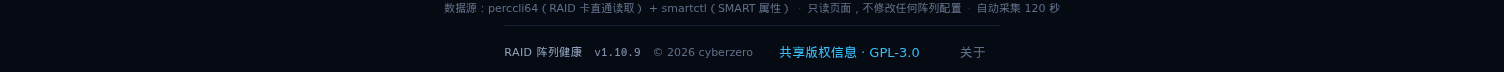
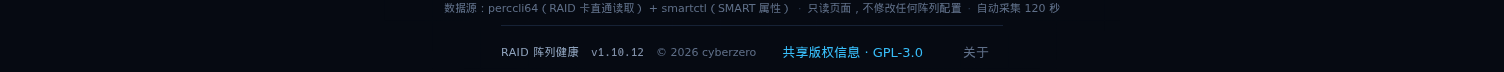
release: v1.10.12 version badge and versioned FPK naming

Changed region(s): [[0.3125, 0.6389, 0.6562, 0.8056]]

diff --git a/app/static/style.css b/app/static/style.css
@@ -1867,3 +1867,49 @@ tr.detail td { padding: 0; background: rgba(6, 11, 20, .55); border-bottom: 1px 
 .donate-payment-note p { margin: 0; font-size: 11.5px; line-height: 1.7; color: var(--muted); }
 [data-theme="light"] .donate-payment-note { background: #fffbeb; border-color: #fde68a; }
 [data-theme="light"] .donate-payment-note b { color: #92400e; }
+
+/* 顶栏图标组：与工具栏按钮同高、同边框 */
+.top-icon-group .icon-btn {
+  width: 38px;
+  height: 38px;
+  border-radius: 9px;
+  display: inline-flex;
+  align-items: center;
+  justify-content: center;
+}
+.top-icon-group .top-gear {
+  border: 1px solid var(--line);
+  background: rgba(255,255,255,.02);
+  color: var(--muted);
+}
+.top-icon-group .top-gear:hover {
+  color: var(--accent);
+  border-color: rgba(56,189,248,.45);
+  background: rgba(56,189,248,.06);
+}
+[data-theme="light"] .top-icon-group .top-gear {
+  background: #ffffff;
+  border-color: var(--line);
+}
+[data-theme="light"] .top-icon-group .top-gear:hover {
+  background: #f0f7ff;
+  border-color: #b8cee2;
+}
+@media (max-width: 620px) {
+  .top-icon-group .icon-btn { width: 34px; height: 34px; }
+}
+
+/* 顶栏版本号 */
+.brand-version {
+  display: inline-block; margin-left: 6px; padding: 1px 5px;
+  border: 1px solid var(--line-soft); border-radius: 4px;
+  font-family: var(--mono); font-size: 9.5px; font-weight: 500;
+  color: var(--accent); background: rgba(56,189,248,.045);
+  vertical-align: 2px; letter-spacing: 0;
+}
+[data-theme="light"] .brand-version {
+  color: #0369a1; background: #eff8ff; border-color: #bae6fd;
+}
+@media (max-width: 620px) {
+  .brand-version { margin-left: 4px; font-size: 9px; padding: 0 4px; }
+}

diff --git a/fpk-src/app/static/style.css b/fpk-src/app/static/style.css
@@ -1867,3 +1867,49 @@ tr.detail td { padding: 0; background: rgba(6, 11, 20, .55); border-bottom: 1px 
 .donate-payment-note p { margin: 0; font-size: 11.5px; line-height: 1.7; color: var(--muted); }
 [data-theme="light"] .donate-payment-note { background: #fffbeb; border-color: #fde68a; }
 [data-theme="light"] .donate-payment-note b { color: #92400e; }
+
+/* 顶栏图标组：与工具栏按钮同高、同边框 */
+.top-icon-group .icon-btn {
+  width: 38px;
+  height: 38px;
+  border-radius: 9px;
+  display: inline-flex;
+  align-items: center;
+  justify-content: center;
+}
+.top-icon-group .top-gear {
+  border: 1px solid var(--line);
+  background: rgba(255,255,255,.02);
+  color: var(--muted);
+}
+.top-icon-group .top-gear:hover {
+  color: var(--accent);
+  border-color: rgba(56,189,248,.45);
+  background: rgba(56,189,248,.06);
+}
+[data-theme="light"] .top-icon-group .top-gear {
+  background: #ffffff;
+  border-color: var(--line);
+}
+[data-theme="light"] .top-icon-group .top-gear:hover {
+  background: #f0f7ff;
+  border-color: #b8cee2;
+}
+@media (max-width: 620px) {
+  .top-icon-group .icon-btn { width: 34px; height: 34px; }
+}
+
+/* 顶栏版本号 */
+.brand-version {
+  display: inline-block; margin-left: 6px; padding: 1px 5px;
+  border: 1px solid var(--line-soft); border-radius: 4px;
+  font-family: var(--mono); font-size: 9.5px; font-weight: 500;
+  color: var(--accent); background: rgba(56,189,248,.045);
+  vertical-align: 2px; letter-spacing: 0;
+}
+[data-theme="light"] .brand-version {
+  color: #0369a1; background: #eff8ff; border-color: #bae6fd;
+}
+@media (max-width: 620px) {
+  .brand-version { margin-left: 4px; font-size: 9px; padding: 0 4px; }
+}

diff --git a/app/static/app.js b/app/static/app.js
@@ -694,6 +694,8 @@
       state.app = data.app || null;
       if (state.app?.version) {
         $("#app-version").textContent = state.app.version;
+        const brandVersion = $("#brand-version");
+        if (brandVersion) brandVersion.textContent = state.app.version;
       }
       $("#admin-open").hidden = !user.admin;
     } catch (error) {

diff --git a/fpk-src/app/static/app.js b/fpk-src/app/static/app.js
@@ -694,6 +694,8 @@
       state.app = data.app || null;
       if (state.app?.version) {
         $("#app-version").textContent = state.app.version;
+        const brandVersion = $("#brand-version");
+        if (brandVersion) brandVersion.textContent = state.app.version;
       }
       $("#admin-open").hidden = !user.admin;
     } catch (error) {

diff --git a/app/static/index.html b/app/static/index.html
@@ -20,7 +20,7 @@
       <span></span><span></span><span></span><span></span>
     </div>
     <div class="brand-text">
-      <h1>RAID 阵列健康</h1>
+      <h1>RAID 阵列健康 <span class="brand-version">v<span id="brand-version">—</span></span></h1>
       <p>HARDWARE RAID・ARRAY MONITOR</p>
     </div>
   </div>

diff --git a/fpk-src/app/static/index.html b/fpk-src/app/static/index.html
@@ -20,7 +20,7 @@
       <span></span><span></span><span></span><span></span>
     </div>
     <div class="brand-text">
-      <h1>RAID 阵列健康</h1>
+      <h1>RAID 阵列健康 <span class="brand-version">v<span id="brand-version">—</span></span></h1>
       <p>HARDWARE RAID・ARRAY MONITOR</p>
     </div>
   </div>

diff --git a/app/server.py b/app/server.py
@@ -28,7 +28,7 @@ GATEWAY_SOCKET = os.environ.get("DISKHEALTH_GATEWAY_SOCKET", "").strip()
 APP_BASE_PATH = os.environ.get("APP_BASE_PATH", "").strip().rstrip("/")
 AUTH_MODE = os.environ.get("AUTH_MODE", "cookie").strip().lower()
 GATEWAY_MODE = AUTH_MODE == "gateway" or bool(GATEWAY_SOCKET)
-APP_VERSION = os.environ.get("APP_VERSION", "1.10.11").strip() or "1.10.11"
+APP_VERSION = os.environ.get("APP_VERSION", "1.10.12").strip() or "1.10.12"
 APP_BUILD = os.environ.get("APP_BUILD", "2026-11-23").strip() or "2026-11-23"
 APP_NAME = "RAID 阵列健康"
 APP_SUBTITLE = "HARDWARE RAID・ARRAY MONITOR"
